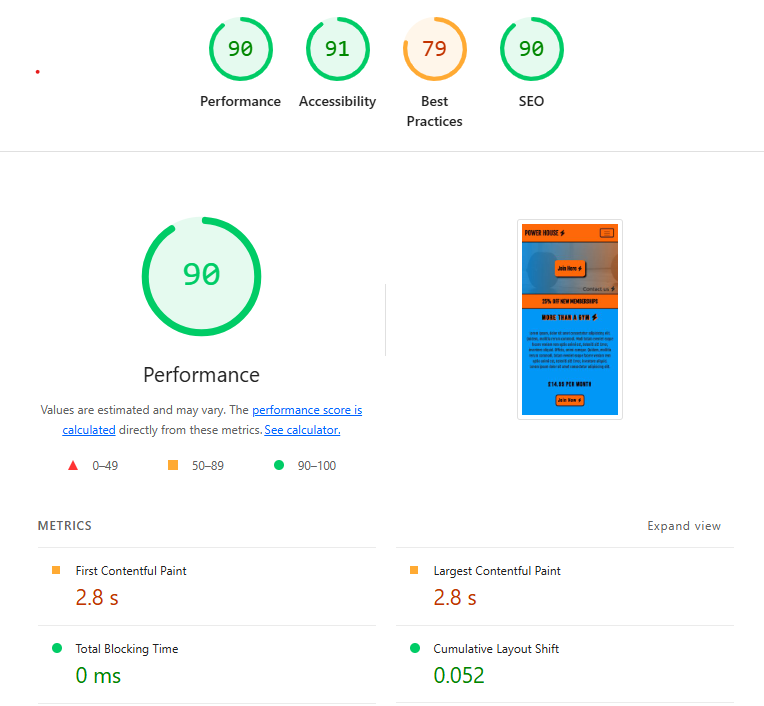
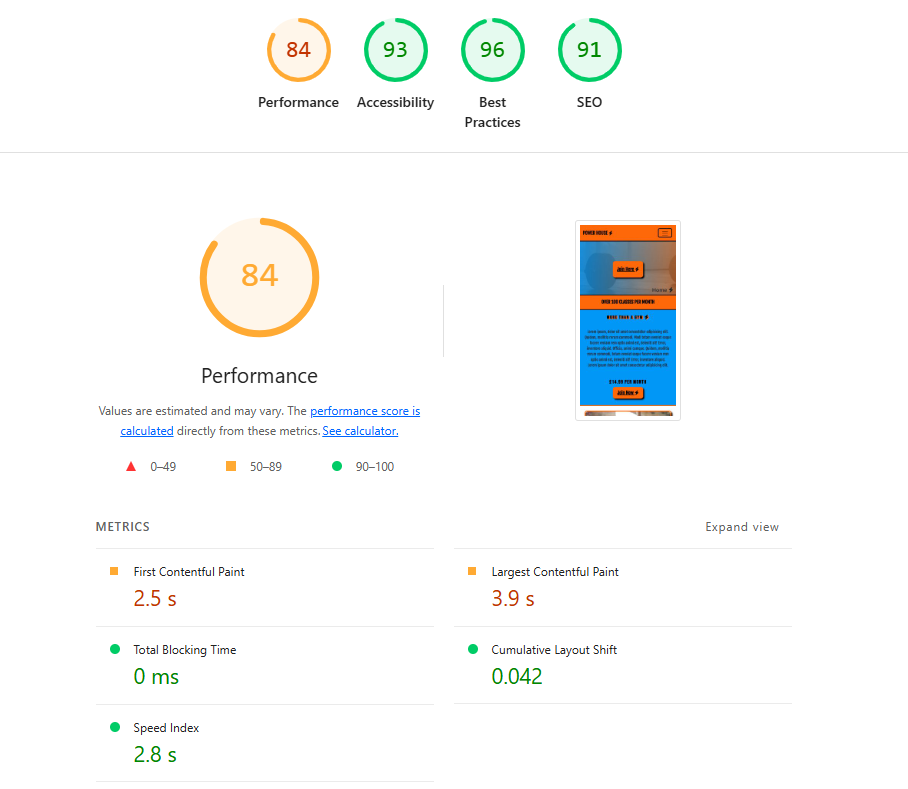
your message

diff --git a/index.html b/index.html
@@ -65,18 +65,9 @@
             </div>
         </div>
         
-        <div class="container-fluid">
-            <div class="row">
-                <div class="col-12 right">
-                    <h3>Home <i class="fa-solid fa-bolt"></i></h3>
-                </div>
-            </div>
-        </div>
-</header>
 
-   
 
-    <main>
+
         
 
         <div class="container-fluid">
@@ -129,15 +120,8 @@
                         </div>
                         <div class="discount-text">
                         <P>
-                            Lorem ipsum, dolor sit amet consectetur adipisicing elit. Quidem, mollitia rerum commodi. 
-                            Modi totam eveniet eaque facere veniam rem optio animi est, deleniti sit! Error, 
-                            inventore aliquid. Officia, animi cumque.
-
-                            Quidem, mollitia rerum commodi, 
-                            totam eveniet eaque facere veniam rem optio animi est, deleniti sit! Error, 
-                            inventore aliquid. <br>
-
-                            Lorem ipsum dolor sit amet consectetur adipisicing elit. 
+                           Welcome to Power House Gym <br> 
+                           Where every corner of our facility is designed to help you maximise your performance to become healthier and stronger. 
                         </P>
                         
                         <div class="discount-price jcc">
@@ -497,9 +481,8 @@
                     </div>
                     <div id="instructor"  class="cat-box-bot collapse">
                     <p>
-                    Lorem ipsum dolor sit amet consectetur, adipisicing elit. Architecto provident saepe, 
-                    unde totam hic neque nihil tenetur temporibus pariatur perferendis amet quisquam deserunt veritatis debitis voluptate. 
-                    Iste placeat dolorum dolore?
+                    Gain access to customized workout plans tailored specifically to your goals, 
+                    fitness level, and any physical limitations you may have.
                     </p>
                     </div>
                     </div>
@@ -530,9 +513,8 @@
                     </div>
                     <div id="fitnessTest"  class="cat-box-bot collapse">
                     <p>
-                    Lorem ipsum dolor sit amet consectetur, adipisicing elit. Architecto provident saepe, 
-                    unde totam hic neque nihil tenetur temporibus pariatur perferendis amet quisquam deserunt veritatis debitis voluptate. 
-                    Iste placeat dolorum dolore?
+                    Booking a health test at the gym is a smart 
+                    first step toward understanding your baseline fitness and creating a personalized wellness plan.
                     </p>
                     </div>
                     </div>
@@ -595,7 +577,8 @@
                                    </div>
                                    <div class="col-12">
                                     <h4 class="pl-1 mt-2">7th July 2025</h4>
-                                    <p>Lorem ipsum dolor sit amet consectetur, adipisicing elit. Dolor numquam modi vel, harum tenetur.</p>
+                                    <p>A rock climbing day trip offers the perfect escape into nature, 
+                                    combining physical challenge with breathtaking scenery as you scale cliffs under the open sky.</p>
                                    </div>
                                 </div>
                             </div>
@@ -619,7 +602,8 @@
                                    </div>
                                    <div class="col-12">
                                     <h4 class="pl-1 mt-2">19th July 2025</h4>
-                                    <p>Lorem ipsum dolor sit amet consectetur, adipisicing elit. Dolor numquam modi vel, harum tenetur.</p>
+                                    <p>A hillside walk day trip offers a refreshing escape into nature, where winding trails lead through
+                                    rolling meadows and panoramic views reward every step of the journey.</p>
                                    </div>
                                 </div>
                             </div> 
@@ -643,7 +627,8 @@
                                    </div>
                                    <div class="col-12">
                                     <h4 class="pl-1 mt-2">29th July 2025</h4>
-                                    <p>Lorem ipsum dolor sit amet consectetur, adipisicing elit. Dolor numquam modi vel, harum tenetur.</p>
+                                    <p>A day trip for the Lincoln 10K run combines the thrill of racing through the historic city's charming streets and cathedral quarter with the satisfaction of achieving a 
+                                    personal best amidst cheering crowds and stunning architectural backdrops.</p>
                                    </div>
                                 </div>
                             </div> 

diff --git a/contact.html b/contact.html
@@ -137,15 +137,8 @@
                         </div>
                         <div class="discount-text">
                         <P>
-                            Lorem ipsum, dolor sit amet consectetur adipisicing elit. Quidem, mollitia rerum commodi. 
-                            Modi totam eveniet eaque facere veniam rem optio animi est, deleniti sit! Error, 
-                            inventore aliquid. Officia, animi cumque.
-
-                            Quidem, mollitia rerum commodi, 
-                            totam eveniet eaque facere veniam rem optio animi est, deleniti sit! Error, 
-                            inventore aliquid. <br>
-
-                            Lorem ipsum dolor sit amet consectetur adipisicing elit. 
+                           Welcome to Power House Gym <br> 
+                           Where every corner of our facility is designed to help you maximise your performance to become healthier and stronger. 
                         </P>
                         
                         <div class="discount-price jcc">
@@ -189,8 +182,7 @@
                                 </div>
                             </div>
                                 <div id="q1"  class="collapse nop mt-2">
-                                    <p>Lorem ipsum dolor sit amet consectetur, adipisicing elit. Tempore ea sapiente laudantium nobis accusamus alias, voluptates fuga dolor consequatur 
-                                    </p>
+                                    <p>£14.99 per month</p>
                                 </div>
                             </div>
                         <br>
@@ -206,7 +198,7 @@
                                     </a>
                                 </div>
                                 <div id="q2"  class="collapse nop mt-2">
-                                    <p>Lorem ipsum dolor sit amet consectetur, adipisicing elit. Tempore ea sapiente laudantium nobis accusamus alias, voluptates fuga dolor consequatur 
+                                    <p>We are open 24 Hours, 7 days a week.  
                                     </p>
                                 </div>
                             </div>
@@ -224,7 +216,7 @@
                                     </a>
                                 </div>
                                 <div id="q3"  class="collapse nop mt-2">
-                                    <p>Lorem ipsum dolor sit amet consectetur, adipisicing elit. Tempore ea sapiente laudantium nobis accusamus alias, voluptates fuga dolor consequatur 
+                                    <p>We have a Gym, Sportshall and Swimming pool
                                     </p>
                                 </div>
                             </div>
@@ -242,8 +234,7 @@
                                     </a>
                                 </div>
                                 <div id="q4"  class="collapse nop mt-2">
-                                    <p>Lorem ipsum dolor sit amet consectetur, adipisicing elit. Tempore ea sapiente laudantium nobis accusamus alias, voluptates fuga dolor consequatur 
-                                    </p>
+                                    <p>Yes 16 year olds can join, with supervison</p>
                                 </div>
                             </div>
                         </div>
@@ -260,7 +251,7 @@
                                     </a>
                                 </div>
                                 <div id="q5"  class="collapse nop mt-2">
-                                    <p>Lorem ipsum dolor sit amet consectetur, adipisicing elit. Tempore ea sapiente laudantium nobis accusamus alias, voluptates fuga dolor consequatur 
+                                    <p>Yes, via Direct Debit 
                                     </p>
                                 </div>
                             </div>

diff --git a/facilities.html b/facilities.html
@@ -134,15 +134,8 @@
                         </div>
                         <div class="discount-text">
                         <P>
-                            Lorem ipsum, dolor sit amet consectetur adipisicing elit. Quidem, mollitia rerum commodi. 
-                            Modi totam eveniet eaque facere veniam rem optio animi est, deleniti sit! Error, 
-                            inventore aliquid. Officia, animi cumque.
-
-                            Quidem, mollitia rerum commodi, 
-                            totam eveniet eaque facere veniam rem optio animi est, deleniti sit! Error, 
-                            inventore aliquid. <br>
-
-                            Lorem ipsum dolor sit amet consectetur adipisicing elit. 
+                           Welcome to Power House Gym <br> 
+                           Where every corner of our facility is designed to help you maximise your performance to become healthier and stronger. 
                         </P>
                         
                         <div class="discount-price jcc">
@@ -173,8 +166,8 @@
                     </div>
                     
                     <div class="facilities-box-bot">
-                        <p>Lorem ipsum dolor sit amet consectetur adipisicing elit. Delectus nulla fugit dolorum ex minima, nesciunt vitae quaerat quis, 
-                        debitis eos porro! Quia accusantium voluptate id neque tempora, repellendus ullam dolore.</p>
+                        <p>A sports hall serves as a versatile indoor venue where athletes and enthusiasts gather to play basketball, 
+                            badminton, table tennis, and a variety of other activities regardless of weather conditions</p>
                     </div>
                 </div>
             </div>
@@ -185,8 +178,8 @@
                     </div>
                     
                     <div class="facilities-box-bot">
-                        <p>Lorem ipsum dolor sit amet consectetur adipisicing elit. Delectus nulla fugit dolorum ex minima, nesciunt vitae quaerat quis, 
-                        debitis eos porro! Quia accusantium voluptate id neque tempora, repellendus ullam dolore.</p>
+                        <p>A swimming pool provides a refreshing space for exercise, relaxation, and skill development, whether you're doing laps for fitness, 
+                        taking a leisurely dip, or learning essential water safety techniques.</p>
                     </div>
                 </div>
             </div>
@@ -197,8 +190,8 @@
                     </div>
                     
                     <div class="facilities-box-bot">
-                        <p>Lorem ipsum dolor sit amet consectetur adipisicing elit. Delectus nulla fugit dolorum ex minima, nesciunt vitae quaerat quis, 
-                        debitis eos porro! Quia accusantium voluptate id neque tempora, repellendus ullam dolore.</p>
+                        <p>Gym facilities offer a comprehensive fitness environment equipped with cardio machines, 
+                            free weights, resistance equipment and everything you need for a good session.</p>
                     </div>
                 </div>
             </div>

diff --git a/assets/css/style.css b/assets/css/style.css
@@ -28,14 +28,15 @@
 
 
 
-.jcc {
-    display: flex;
-    justify-content: center;
-    align-items: center;
-}
+
 
 .inline {
     display: inline-flex;
+}
+
+.jcc {
+    display: flex;
+    justify-content: center;
 }
 
 .parent {
@@ -81,7 +82,7 @@ header nav {
 header nav .logo-text {
     margin-top: 10px;
     font-family: "Fjalla One", sans-serif;
-    font-size: 27px;
+    font-size: 20px;
     font-weight: 900;
     font-style: normal;
 }
@@ -93,7 +94,7 @@ header nav .logo-text:hover {
 
 header nav .nav-item a {
     font-family: "Bebas Neue", sans-serif;
-    font-size: 24px;
+    font-size: 20px;
     font-weight: 700;
     font-style: normal;
     letter-spacing: 1px;
@@ -148,7 +149,7 @@ header nav .nav-item a:hover {
 #hero a {
     font-family: "Fjalla One", sans-serif;
     color: black;
-    font-size: 22px;
+    font-size: 20px;
     font-weight: 800;
     margin: 0px;
 }
@@ -190,7 +191,7 @@ header nav .nav-item a:hover {
     padding-top: 14px;
     font-family: "Fjalla One", sans-serif;
     color: black;
-    font-size: 22px;
+    font-size: 20px;
     font-weight: 800;
 }
 
@@ -207,7 +208,7 @@ header nav .nav-item a:hover {
 #discount h2 {
     margin-top: 20px;
     font-family: "Bebas Neue", sans-serif;
-    font-size: 29px;
+    font-size: 22px;
     font-weight: 800;
     color: black;
     text-shadow: 4px 2px #FE6801;
@@ -226,7 +227,7 @@ header nav .nav-item a:hover {
 #discount .discount-price h3 {
     padding-top: 12px;
     font-family: "Bebas Neue", sans-serif;
-    font-size: 20pt;
+    font-size: 22px;
     font-weight: 800;
     color: black;
     letter-spacing: 2px;
@@ -248,7 +249,7 @@ header nav .nav-item a:hover {
 #discount .discount-join .button-box a {
     font-family: "Fjalla One", sans-serif;
     color: black;
-    font-size: 22px;
+    font-size: 20px;
     font-weight: 800;
     margin: 0px;
 }
@@ -280,7 +281,7 @@ header nav .nav-item a:hover {
 
 #categories h2 { 
     font-family: "Bebas Neue", sans-serif;
-    font-size: 22px;
+    font-size: 20px;
     letter-spacing: 2px;
 
 }
@@ -416,6 +417,8 @@ header nav .nav-item a:hover {
 /*/ Facilities boxes / Facilities Page /*/
 
 #facilities .facilities-box {
+    min-height: 295px;
+    max-height: 295px;
     margin-top: -30px;
     z-index: 1;
     width: 100%;
@@ -639,7 +642,7 @@ footer #Socials a {
     width: 300px;
     }
 
-
+    
 
 }
 
@@ -825,11 +828,11 @@ footer #Socials a {
     }
     
     header nav .logo-text {
-    font-size: 24px;
+    font-size: 24pt;
     }
     
     header nav .nav-item a {
-    font-size: 24px;
+    font-size: 24pt;
     }
 
 

diff --git a/membership.html b/membership.html
@@ -134,15 +134,8 @@
                         </div>
                         <div class="discount-text">
                         <P>
-                            Lorem ipsum, dolor sit amet consectetur adipisicing elit. Quidem, mollitia rerum commodi. 
-                            Modi totam eveniet eaque facere veniam rem optio animi est, deleniti sit! Error, 
-                            inventore aliquid. Officia, animi cumque.
-
-                            Quidem, mollitia rerum commodi, 
-                            totam eveniet eaque facere veniam rem optio animi est, deleniti sit! Error, 
-                            inventore aliquid. <br>
-
-                            Lorem ipsum dolor sit amet consectetur adipisicing elit. 
+                           Welcome to Power House Gym <br> 
+                           Where every corner of our facility is designed to help you maximise your performance to become healthier and stronger. 
                         </P>
                         
                         <div class="discount-price jcc">

diff --git a/README.md b/README.md
@@ -167,10 +167,10 @@ Value Error : text-shadow Too many values or values are not recognized : #0119FE
 
 Completed Lighthouse Assessment
 
-Performance 90
-Accessability 91
-Best Practices 79
-SEO 90 
+Performance 84
+Accessability 93
+Best Practices 96
+SEO 91
 
 ![alt text](./assets/images/lighthouse.png "logo example")
 
